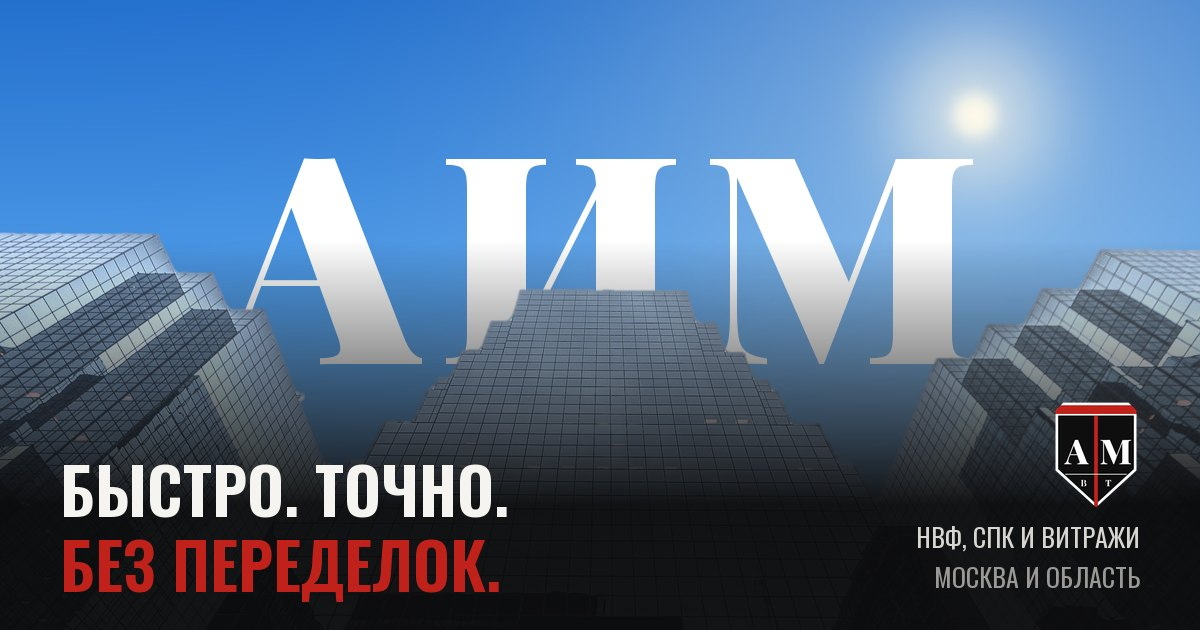
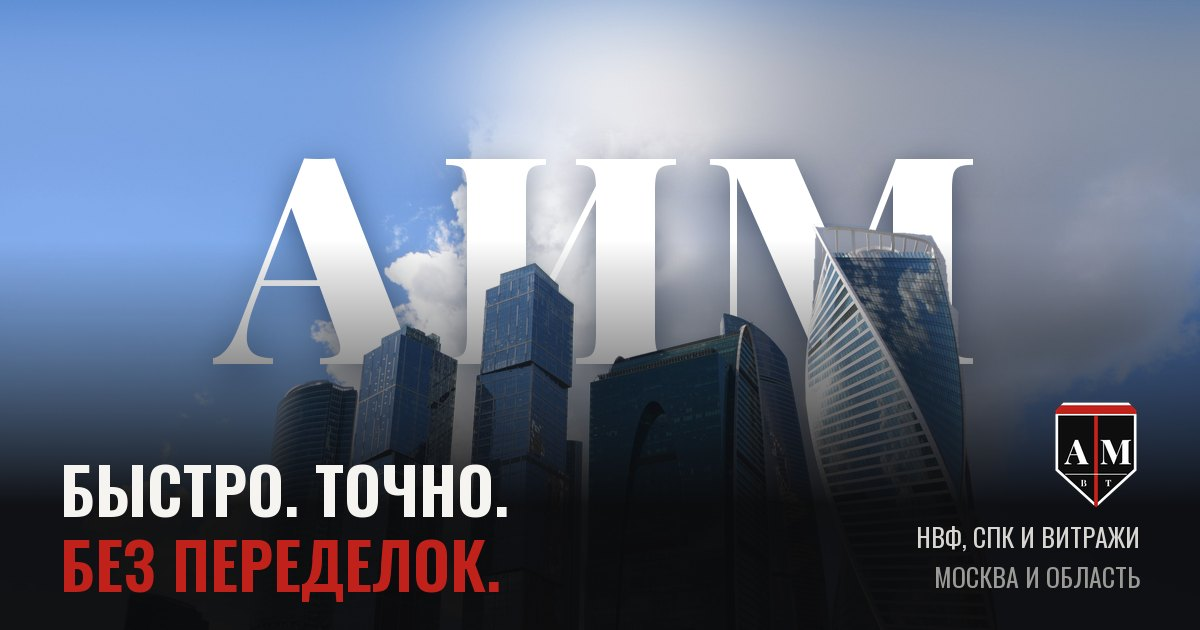
Демо-копия сайта 2026-11-02 21:31

diff --git a/index.html b/index.html
@@ -143,12 +143,12 @@ section{position:relative}
 
 /* ---------- первый экран: те же слои, что в варианте 1 ---------- */
 .hero{position:relative;height:clamp(660px,100dvh,1000px);overflow:hidden;background:var(--k0);container-type:inline-size;--hr:clamp(520px,38.9vw,560px);--hg:64px}
-.stage{position:absolute;top:0;left:-15%;width:130%;aspect-ratio:2800/1866}
+.stage{position:absolute;top:-8cqw;left:-5%;width:110%;aspect-ratio:2800/2263}
 .stage img{position:absolute;inset:0;width:100%;height:100%}
 /* Облака: полоса неба (кадр + зеркальная копия), бесконечно плывёт влево и плавно растворяется книзу */
-.clouds{position:absolute;top:0;left:0;width:400%;height:36%;background:url(img/clouds-band-2800.png) repeat-x 0 0/50% 100%;background-image:image-set(url(img/clouds-band-2800.webp) type("image/webp"),url(img/clouds-band-2800.png) type("image/png"));-webkit-mask-image:linear-gradient(to bottom,#000 55%,transparent);mask-image:linear-gradient(to bottom,#000 55%,transparent)}
+.clouds{position:absolute;top:0;left:0;width:400%;height:36%;opacity:.6;background:url(img/clouds-band-2800.png) repeat-x 0 0/50% 100%;background-image:image-set(url(img/clouds-band-2800.webp) type("image/webp"),url(img/clouds-band-2800.png) type("image/png"));-webkit-mask-image:linear-gradient(to bottom,#000 55%,transparent);mask-image:linear-gradient(to bottom,#000 55%,transparent)}
 @media (max-width:767px){.clouds{background-image:url(img/clouds-band-1400.png);background-image:image-set(url(img/clouds-band-1400.webp) type("image/webp"),url(img/clouds-band-1400.png) type("image/png"))}}
-.bigword{position:absolute;left:0;right:0;top:7.4cqw;text-align:center;font-family:var(--play);font-weight:900;font-size:min(25cqw,504px);line-height:1;letter-spacing:.06em;color:#fff;text-shadow:0 18px 50px rgba(8,30,70,.35);pointer-events:none;user-select:none}
+.bigword{position:absolute;left:0;right:0;top:14cqw;text-align:center;font-family:var(--play);font-weight:900;font-size:min(21cqw,420px);line-height:1;letter-spacing:.06em;color:#fff;text-shadow:0 6px 30px rgba(6,24,56,.45),0 18px 60px rgba(6,24,56,.3);pointer-events:none;user-select:none}
 .bigword .bw{display:inline-block}
 /* Отражения неба в стекле: слой виден только на зданиях (маска = вырезанные здания),
    облачные разводы медленно плывут, по стеклу изредка проходит мягкий блик */
@@ -301,9 +301,9 @@ footer a:hover{color:var(--w)}
  .h2{font-size:48px}
  .sec{padding:96px var(--pad)}
  .hero{--k:1.5;height:auto;padding:calc(var(--k) * 44%) 0 0}
- .stage{width:calc(var(--k) * 100%);left:calc((1 - var(--k)) * 50%)}
- .bigword{top:15cqw;font-size:26cqw}
- .shade{bottom:auto;height:calc(var(--k) * 66.64cqw);background:linear-gradient(to bottom,rgba(13,13,14,.35) 0%,rgba(13,13,14,0) 14%),linear-gradient(to top,rgba(10,10,11,1) 0%,rgba(10,10,11,.9) 20%,rgba(10,10,11,.5) 36%,rgba(10,10,11,0) 56%)}
+ .stage{top:0;width:calc(var(--k) * 100%);left:calc((1 - var(--k)) * 50%)}
+ .bigword{top:24cqw;font-size:26cqw}
+ .shade{bottom:auto;height:calc(var(--k) * 80.82cqw);background:linear-gradient(to bottom,rgba(13,13,14,.35) 0%,rgba(13,13,14,0) 14%),linear-gradient(to top,rgba(10,10,11,1) 0%,rgba(10,10,11,.9) 20%,rgba(10,10,11,.5) 36%,rgba(10,10,11,0) 56%)}
  .hero .in{position:relative;left:auto;right:auto;bottom:auto;display:block;padding:0 var(--pad) 56px}
  h1{font-size:clamp(46px,9vw,80px);margin-bottom:28px}
  .facts{grid-template-columns:1fr 1fr}
@@ -341,7 +341,7 @@ footer a:hover{color:var(--w)}
  .hero .eyebrow{font-size:12px;letter-spacing:.12em}
  .eyebrow::before{width:26px}
  .hero{--k:1.8;padding-top:calc(var(--k) * 43%)}
- .bigword{top:17cqw;font-size:29cqw}
+ .bigword{top:29cqw;font-size:29cqw}
  .shade{background:linear-gradient(to bottom,rgba(13,13,14,.4) 0%,rgba(13,13,14,0) 16%),linear-gradient(to top,rgba(10,10,11,1) 0%,rgba(10,10,11,.88) 20%,rgba(10,10,11,.45) 38%,rgba(10,10,11,0) 58%)}
  .hero .in{padding-bottom:40px}
  h1{font-size:clamp(40px,12.4vw,56px);margin-bottom:20px}
@@ -415,13 +415,13 @@ footer a:hover{color:var(--w)}
  <div class="stage">
   <picture>
    <source type="image/webp" sizes="(max-width:767px) 120vw, (max-width:1023px) 150vw, 130vw" srcset="img/hero-bg-800.webp 800w, img/hero-bg-1400.webp 1400w, img/hero-bg-2000.webp 2000w, img/hero-bg-2800.webp 2800w">
-   <img src="img/hero-bg-1400.jpg" sizes="(max-width:767px) 120vw, (max-width:1023px) 150vw, 130vw" srcset="img/hero-bg-800.jpg 800w, img/hero-bg-1400.jpg 1400w, img/hero-bg-2000.jpg 2000w, img/hero-bg-2800.jpg 2800w" width="2800" height="1866" alt="Облачное небо над небоскрёбами" fetchpriority="high">
+   <img src="img/hero-bg-1400.jpg" sizes="(max-width:767px) 120vw, (max-width:1023px) 150vw, 130vw" srcset="img/hero-bg-800.jpg 800w, img/hero-bg-1400.jpg 1400w, img/hero-bg-2000.jpg 2000w, img/hero-bg-2800.jpg 2800w" width="2800" height="2263" alt="Небо над башнями Москва-Сити" fetchpriority="high">
   </picture>
   <div class="clouds" aria-hidden="true"></div>
   <div class="bigword" aria-hidden="true"><span class="bw">АИМ</span></div>
   <picture>
    <source type="image/webp" sizes="(max-width:767px) 120vw, (max-width:1023px) 150vw, 130vw" srcset="img/hero-fg-800.webp 800w, img/hero-fg-1400.webp 1400w, img/hero-fg-2000.webp 2000w, img/hero-fg-2800.webp 2800w">
-   <img src="img/hero-fg-1400.png" sizes="(max-width:767px) 120vw, (max-width:1023px) 150vw, 130vw" srcset="img/hero-fg-800.png 800w, img/hero-fg-1400.png 1400w, img/hero-fg-2000.png 2000w" width="2800" height="1866" alt="Стеклянные небоскрёбы, вид снизу" fetchpriority="high">
+   <img src="img/hero-fg-1400.png" sizes="(max-width:767px) 120vw, (max-width:1023px) 150vw, 130vw" srcset="img/hero-fg-800.png 800w, img/hero-fg-1400.png 1400w, img/hero-fg-2000.png 2000w" width="2800" height="2263" alt="Башни делового центра Москва-Сити" fetchpriority="high">
   </picture>
  <div class="refl" aria-hidden="true"><i></i></div>
  </div>

diff --git a/v1/index.html b/v1/index.html
@@ -140,8 +140,8 @@ section[id]{scroll-margin-top:0}
 /* ---------- первый экран ---------- */
 .hero{position:relative;height:clamp(760px,29.17vw + 540px,1080px);overflow:hidden;background:#0A0A0B;container-type:inline-size}
 /* Слои: фон, слово AIM, здания с прозрачным небом. Оба снимка лежат в одном
-   блоке с пропорциями исходника 2800x1866, поэтому совпадают на любой ширине. */
-.stage{position:absolute;top:0;left:-15%;width:130%;aspect-ratio:2800/1866}
+   блоке с пропорциями исходника 2800x2263, поэтому совпадают на любой ширине. */
+.stage{position:absolute;top:0;left:-15%;width:130%;aspect-ratio:2800/2263}
 .stage img{position:absolute;inset:0;width:100%;height:100%}
 /* Облака: полоса неба (кадр + зеркальная копия), бесконечно плывёт влево и плавно растворяется книзу */
 .clouds{position:absolute;top:0;left:0;width:400%;height:36%;background:url(../img/clouds-band-2800.png) repeat-x 0 0/50% 100%;background-image:image-set(url(../img/clouds-band-2800.webp) type("image/webp"),url(../img/clouds-band-2800.png) type("image/png"));-webkit-mask-image:linear-gradient(to bottom,#000 55%,transparent);mask-image:linear-gradient(to bottom,#000 55%,transparent)}
@@ -312,7 +312,7 @@ footer .brand b{font-size:22px;color:var(--w)}
  .hero{--k:1.5;height:auto;padding:calc(var(--k) * 44%) 0 0}
  .stage{width:calc(var(--k) * 100%);left:calc((1 - var(--k)) * 50%)}
  .bigword{top:11cqw;font-size:31cqw}
- .shade{bottom:auto;height:calc(var(--k) * 66.64cqw);background:linear-gradient(to bottom,rgba(13,13,14,.55) 0%,rgba(13,13,14,0) 16%),linear-gradient(to top,rgba(10,10,11,1) 0%,rgba(10,10,11,.92) 22%,rgba(10,10,11,.6) 40%,rgba(10,10,11,0) 62%)}
+ .shade{bottom:auto;height:calc(var(--k) * 80.82cqw);background:linear-gradient(to bottom,rgba(13,13,14,.55) 0%,rgba(13,13,14,0) 16%),linear-gradient(to top,rgba(10,10,11,1) 0%,rgba(10,10,11,.92) 22%,rgba(10,10,11,.6) 40%,rgba(10,10,11,0) 62%)}
  .hero .in{position:relative;left:auto;right:auto;bottom:auto;display:block;padding:0 var(--pad) 48px}
  h1{font-size:clamp(46px,9vw,80px);margin-bottom:28px}
  .stats{position:relative;grid-template-columns:1fr 1fr}
@@ -452,13 +452,13 @@ footer .brand b{font-size:22px;color:var(--w)}
  <div class="stage">
   <picture>
    <source type="image/webp" sizes="(max-width:767px) 120vw, (max-width:1023px) 150vw, 130vw" srcset="../img/hero-bg-800.webp 800w, ../img/hero-bg-1400.webp 1400w, ../img/hero-bg-2000.webp 2000w, ../img/hero-bg-2800.webp 2800w">
-   <img src="../img/hero-bg-1400.jpg" sizes="(max-width:767px) 120vw, (max-width:1023px) 150vw, 130vw" srcset="../img/hero-bg-800.jpg 800w, ../img/hero-bg-1400.jpg 1400w, ../img/hero-bg-2000.jpg 2000w, ../img/hero-bg-2800.jpg 2800w" width="2800" height="1866" alt="Облачное небо над небоскрёбами" fetchpriority="high">
+   <img src="../img/hero-bg-1400.jpg" sizes="(max-width:767px) 120vw, (max-width:1023px) 150vw, 130vw" srcset="../img/hero-bg-800.jpg 800w, ../img/hero-bg-1400.jpg 1400w, ../img/hero-bg-2000.jpg 2000w, ../img/hero-bg-2800.jpg 2800w" width="2800" height="2263" alt="Облачное небо над небоскрёбами" fetchpriority="high">
   </picture>
   <div class="clouds" aria-hidden="true"></div>
   <div class="bigword" aria-hidden="true"><span class="bw">AIM</span></div>
   <picture>
    <source type="image/webp" sizes="(max-width:767px) 120vw, (max-width:1023px) 150vw, 130vw" srcset="../img/hero-fg-800.webp 800w, ../img/hero-fg-1400.webp 1400w, ../img/hero-fg-2000.webp 2000w, ../img/hero-fg-2800.webp 2800w">
-   <img src="../img/hero-fg-1400.png" sizes="(max-width:767px) 120vw, (max-width:1023px) 150vw, 130vw" srcset="../img/hero-fg-800.png 800w, ../img/hero-fg-1400.png 1400w, ../img/hero-fg-2000.png 2000w" width="2800" height="1866" alt="Стеклянные небоскрёбы, вид снизу" fetchpriority="high">
+   <img src="../img/hero-fg-1400.png" sizes="(max-width:767px) 120vw, (max-width:1023px) 150vw, 130vw" srcset="../img/hero-fg-800.png 800w, ../img/hero-fg-1400.png 1400w, ../img/hero-fg-2000.png 2000w" width="2800" height="2263" alt="Стеклянные небоскрёбы, вид снизу" fetchpriority="high">
   </picture>
  </div>
  <div class="shade"></div>
